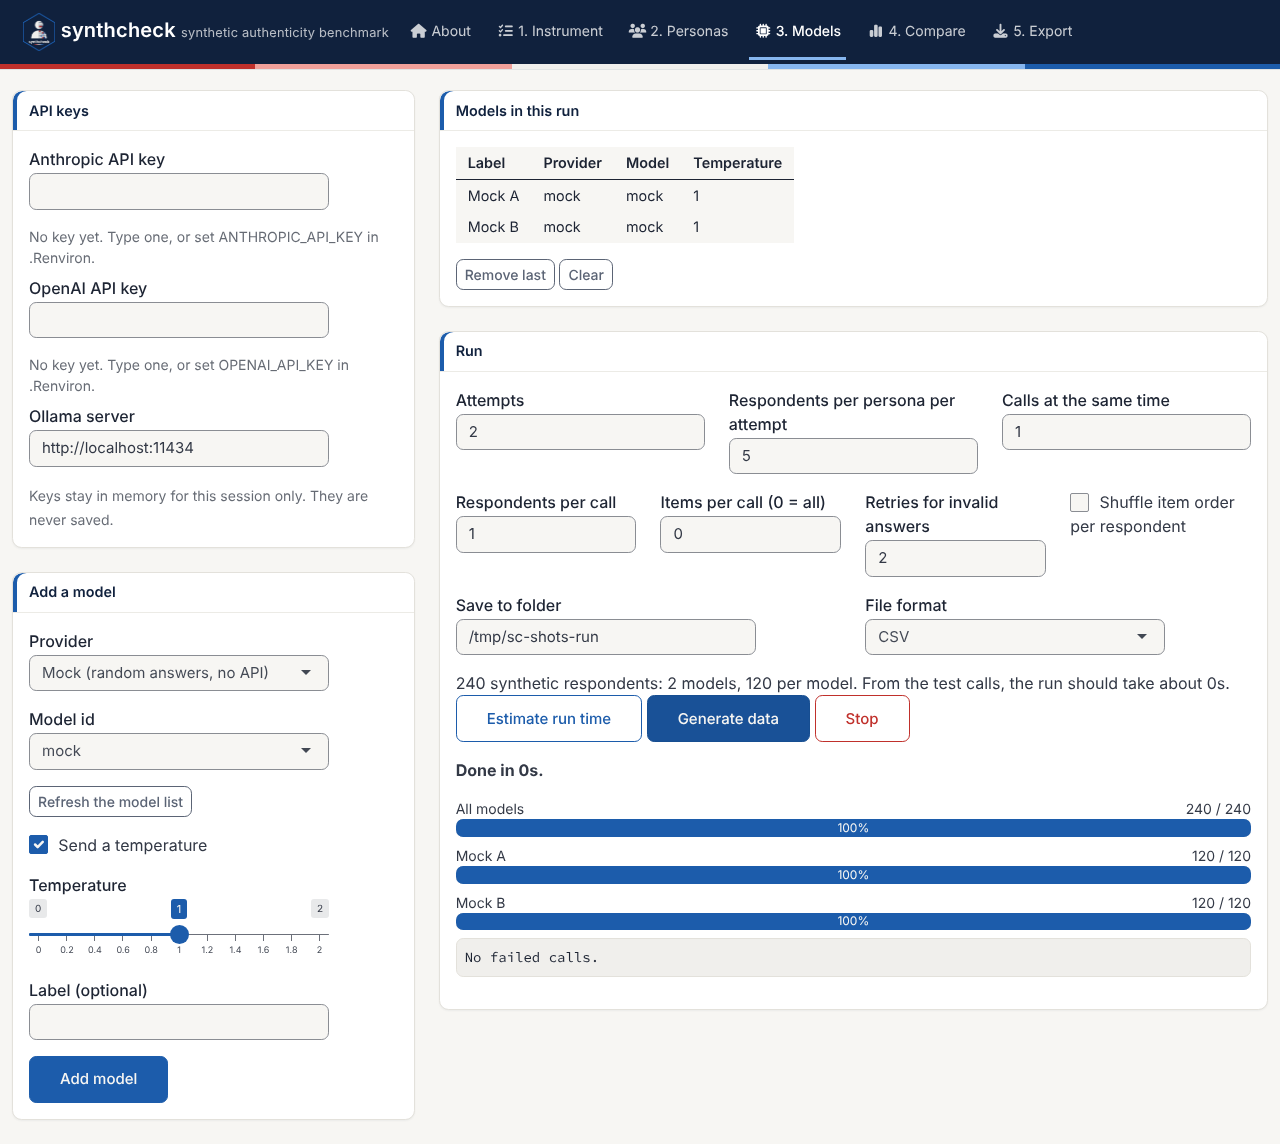
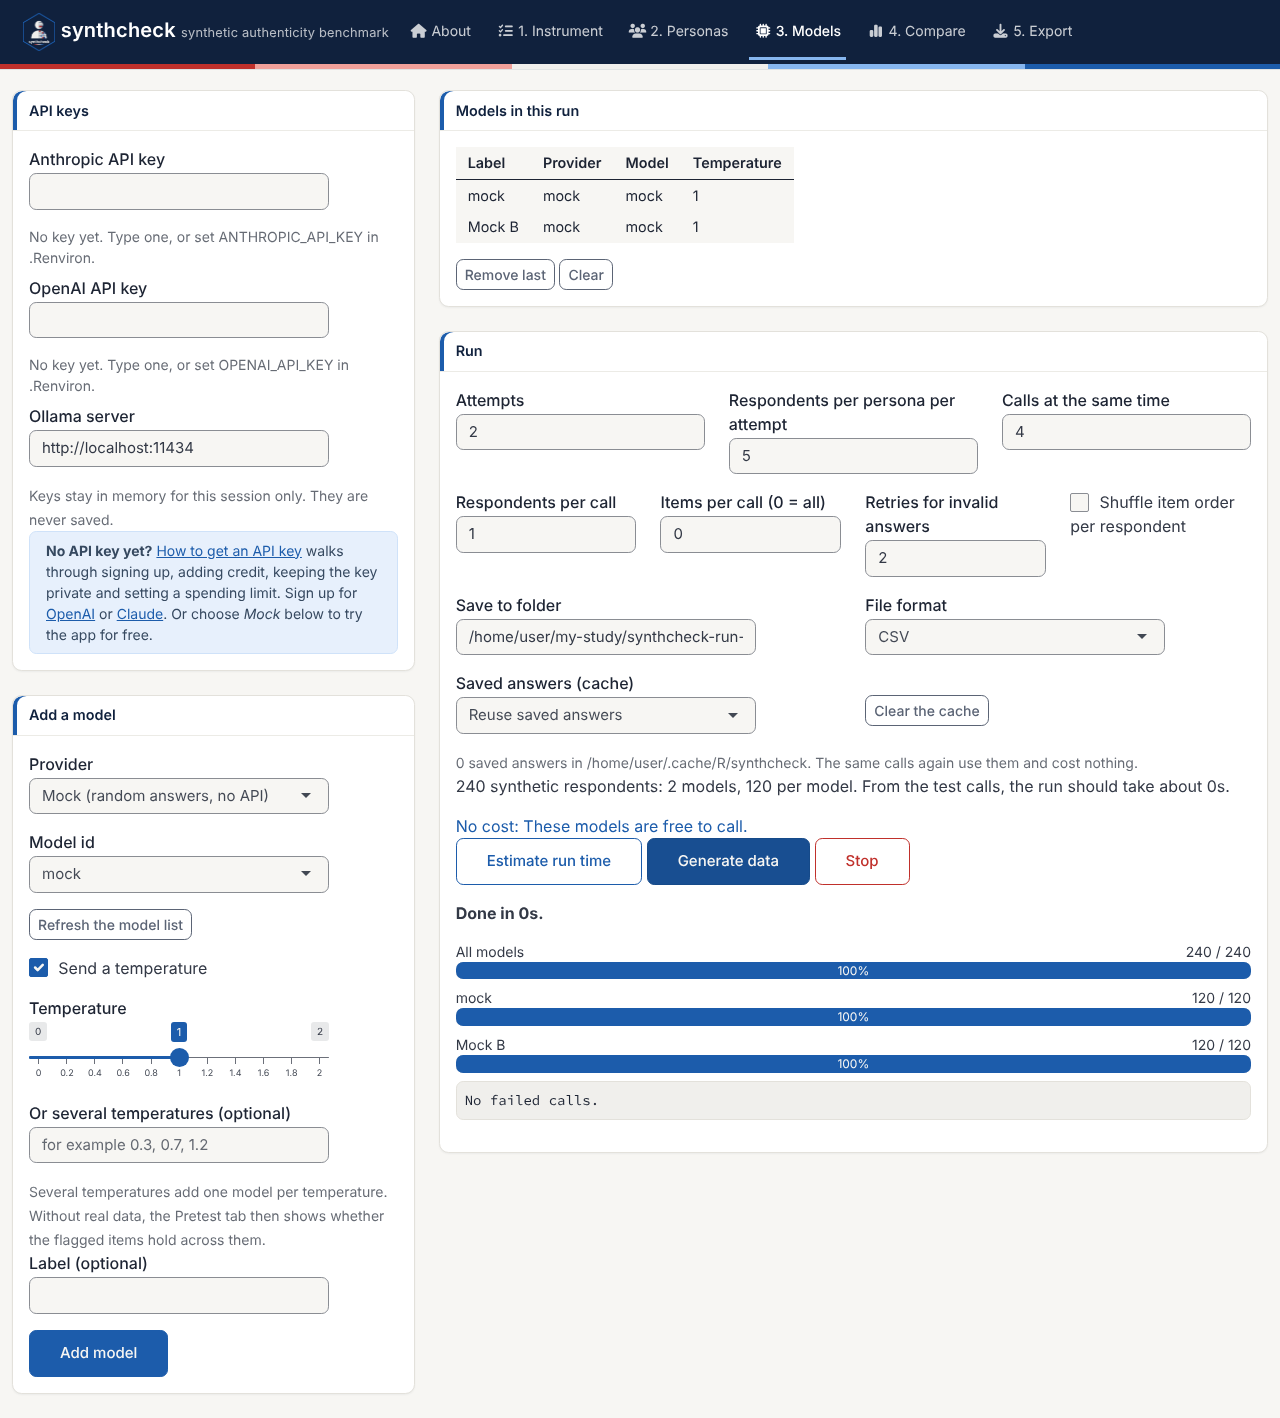
Update the docs, tour and screenshots for the latest version; add an API key guide
- New article "Getting an API key for OpenAI or Claude": Sign-up, credit,
  creating a key, keeping it private, spending limits, using it in synthcheck.
- The app's Models tab links to it and to the providers next to the key fields;
  the guided tour gains an API keys step and mentions the cost estimate and cache.
- App tour, app demos, Get started and the generate tutorial cover the built-in
  short instruments, cost estimates, the response cache and the results report.
- Website: The article is in the app menu and the articles index; README links it.
- Refreshed screenshots; new ones for the cost confirmation and the RSES instrument.

Claude-Session: https://claude.ai/code/session_01GraftstiPphvcw6ZgQhbrk

diff --git a/README.md b/README.md
@@ -136,7 +136,12 @@ the same in code).
 
 API keys typed into the app stay in memory for that session only. Keys set
 as `ANTHROPIC_API_KEY` or `OPENAI_API_KEY` in `.Renviron` are used without
-being shown. The same steps work in code:
+being shown. New to API keys? The article
+[Getting an API key](https://www.okanbulut.com/synthcheck/articles/api-keys.html)
+walks through signing up with [OpenAI](https://openai.com/api/) or
+[Claude](https://platform.claude.com/dashboard), adding credit, keeping the
+key private and setting a spending limit. The Mock provider, Ollama models
+and the built-in data need no key. The same steps work in code:
 
 ```r
 ins <- sc_instrument(hexaco_items[hexaco_items$trait == "H", ], scale = c(1, 7))
@@ -154,7 +159,8 @@ See the [website](https://www.okanbulut.com/synthcheck/) for a Get started
 article, tutorials on each step and a
 [tour of the app](https://www.okanbulut.com/synthcheck/articles/app-tour.html)
 with [demos](https://www.okanbulut.com/synthcheck/articles/app-demo.html) of
-both paths.
+both paths, and a guide to
+[getting an API key](https://www.okanbulut.com/synthcheck/articles/api-keys.html).
 
 ## Data
 

diff --git a/NEWS.md b/NEWS.md
@@ -51,6 +51,20 @@
 * The app's Export tab has a new **Results report** card that downloads the
   report for the path you chose, in HTML or PDF.
 
+* New article: "Getting an API key for OpenAI or Claude". It walks through
+  signing up, adding credit, keeping the key private and setting a spending
+  limit. The app's Models tab links to it and to the providers' sign-up
+  pages next to the API key fields, and the website links to it from the app
+  menu, Get started and the README.
+
+* The guided tour in the app now shows the API keys, the estimated cost and
+  the response cache. The About tab lists the cost estimate and the cache.
+
+* The tour of the app, the app demos, Get started and the tutorial on
+  generating respondents cover the built-in short instruments, the cost
+  estimate, the response cache and the results report, with new
+  screenshots.
+
 # synthcheck 0.2.0
 
 Adds a path for scales without real data (a synthetic pretest and cognitive
